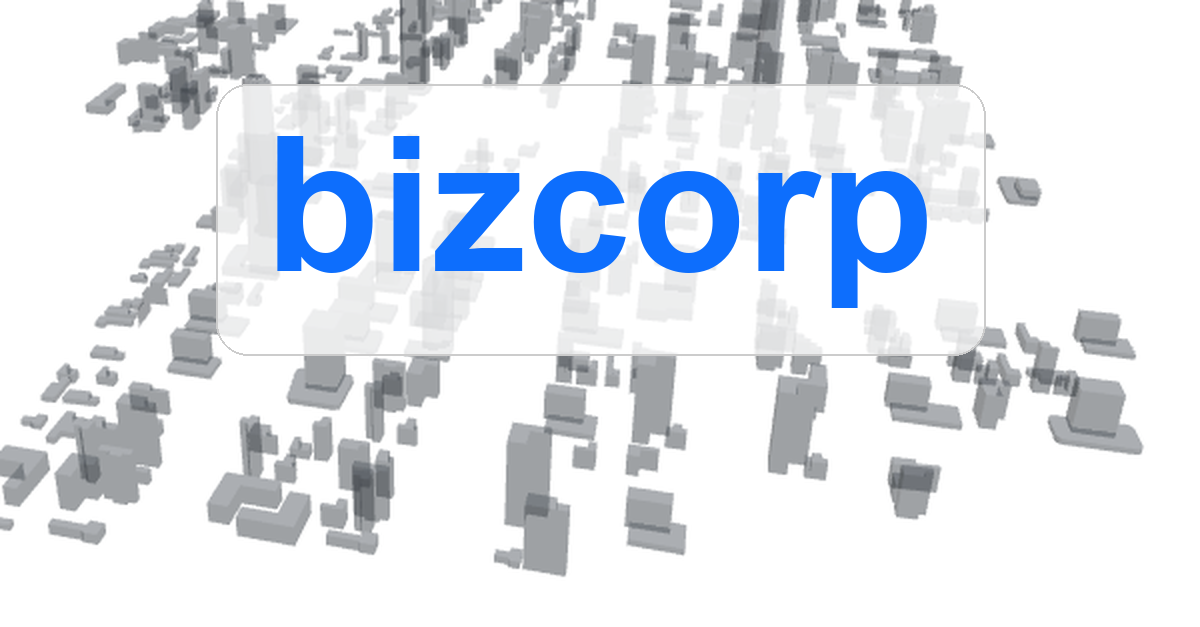
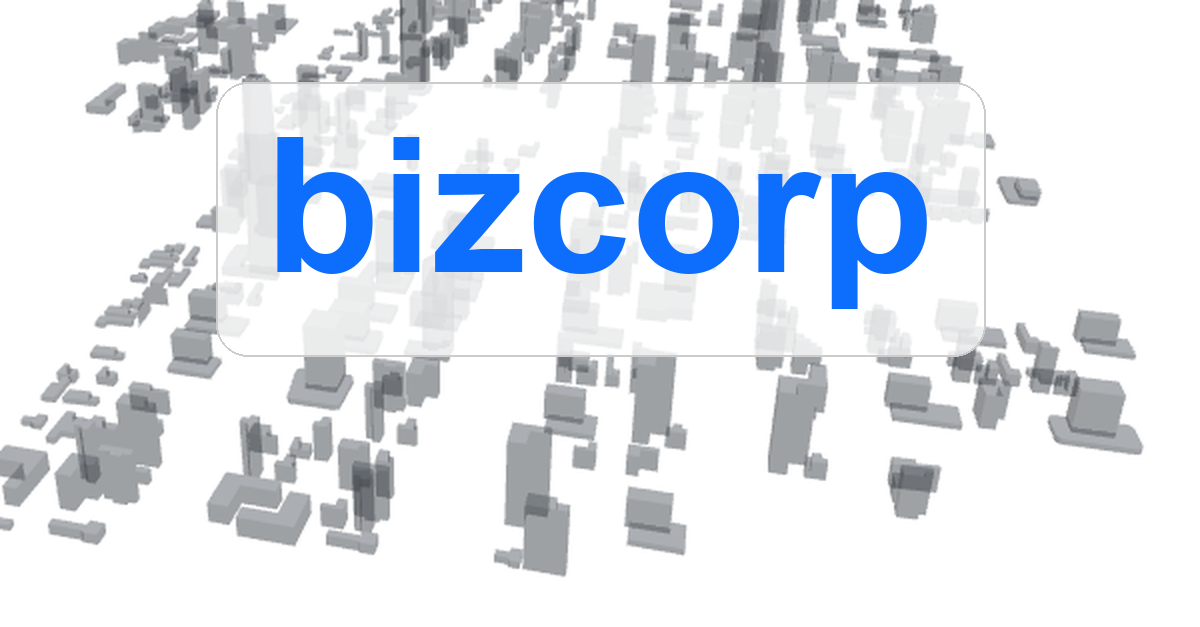
fix: 15% top padding ratio on OG images, bump cache v12

diff --git a/frontend/index.html b/frontend/index.html
@@ -12,7 +12,7 @@
     />
     <meta
       property="og:image"
-      content="https://www.wingshot.dev/og-image.png?v=11"
+      content="https://www.wingshot.dev/og-image.png?v=12"
     />
     <meta property="og:url" content="https://www.wingshot.dev" />
     <meta property="og:type" content="website" />
